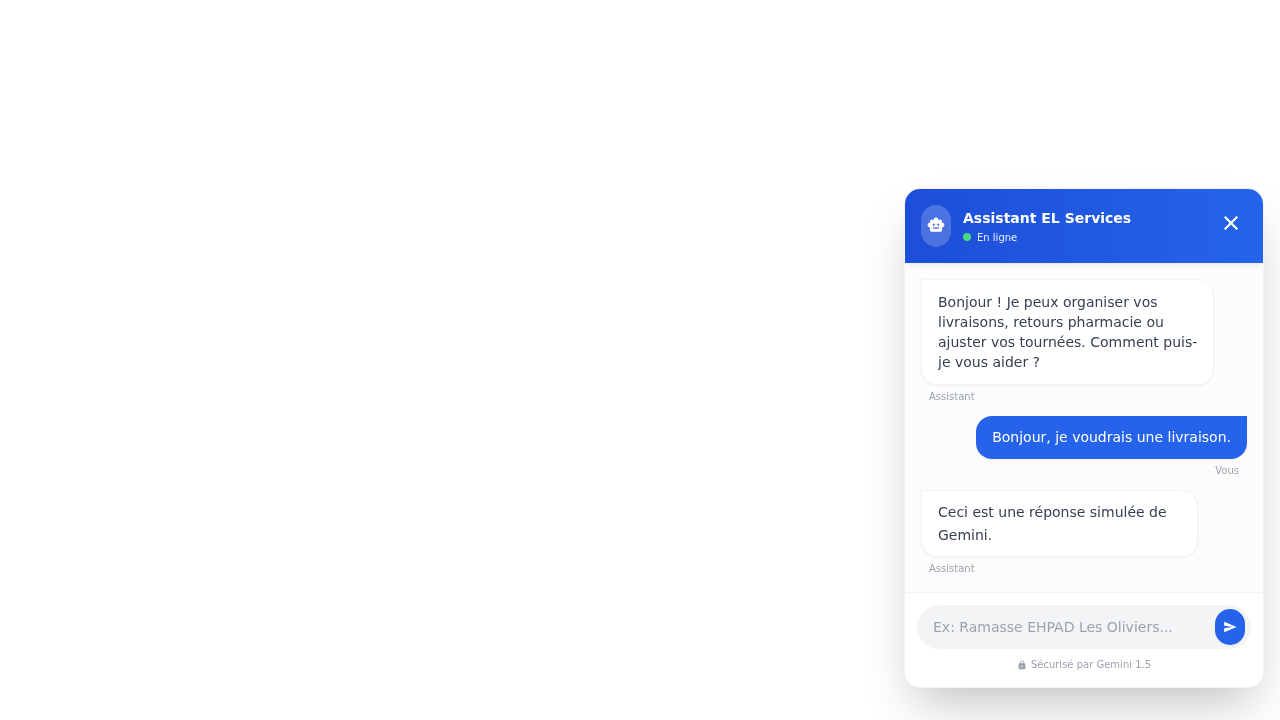
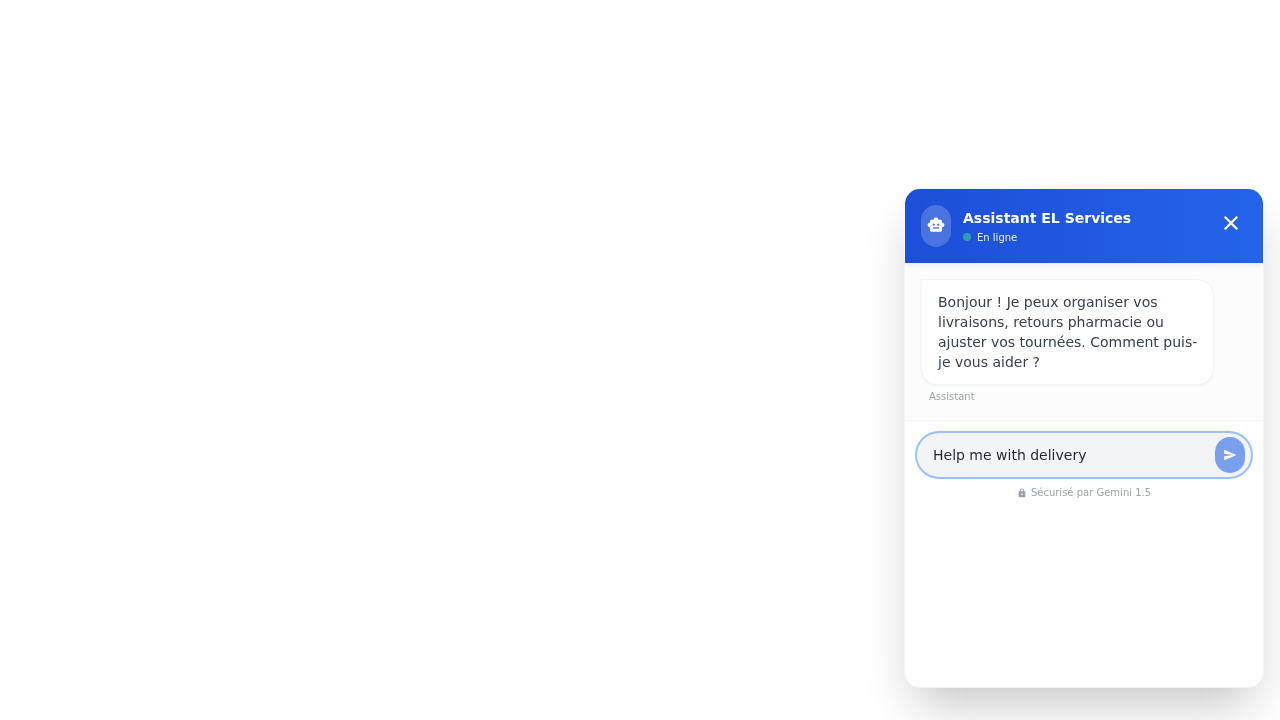
feat: Improve accessibility and UX of Chat Assistant
- Added `aria-label` attributes to "Close", "Send", and "Input" elements in `Chat_Piluleur_Interface.html`.
- Implemented `aria-live` region for messages container.
- Added logic to disable the "Send" button when the input is empty to prevent accidental submissions.
- Added visual feedback (disabled state) for the "Send" button.

diff --git a/Projet_ELS/Chat_Piluleur_Interface.html b/Projet_ELS/Chat_Piluleur_Interface.html
@@ -33,12 +33,12 @@
             </div>
           </div>
         </div>
-        <button onclick="toggleChat()" class="hover:bg-white/20 p-1 rounded-full transition-colors cursor-pointer">
+        <button onclick="toggleChat()" class="hover:bg-white/20 p-1 rounded-full transition-colors cursor-pointer" aria-label="Fermer la discussion">
           <span class="material-icons">close</span>
         </button>
       </div>
 
-      <div id="messages-container" class="flex-1 overflow-y-auto p-4 space-y-3 bg-gray-50/50 scrollbar-hide">
+      <div id="messages-container" class="flex-1 overflow-y-auto p-4 space-y-3 bg-gray-50/50 scrollbar-hide" aria-live="polite">
         <div class="flex flex-col items-start animate-fade-in">
           <div class="bg-white border border-gray-100 text-gray-700 rounded-2xl rounded-tl-none px-4 py-3 shadow-sm text-sm max-w-[90%]">
             Bonjour ! Je peux organiser vos livraisons, retours pharmacie ou ajuster vos tournées. Comment puis-je vous aider ?
@@ -49,9 +49,9 @@
 
       <div class="p-3 bg-white border-t border-gray-100">
         <form onsubmit="sendMessage(event)" class="relative flex items-center gap-2">
-          <input type="text" id="user-input" placeholder="Ex: Ramasse EHPAD Les Oliviers..."
+          <input type="text" id="user-input" placeholder="Ex: Ramasse EHPAD Les Oliviers..." aria-label="Votre message" oninput="updateSendButtonState()"
                  class="w-full bg-gray-100 text-gray-800 text-sm rounded-full pl-4 pr-12 py-3 focus:outline-none focus:ring-2 focus:ring-blue-500/50 transition-all placeholder-gray-400">
-          <button type="submit" id="send-btn" class="absolute right-1.5 p-2 bg-blue-600 hover:bg-blue-700 text-white rounded-full shadow-sm transition-all transform hover:scale-105 disabled:opacity-50 disabled:cursor-not-allowed">
+          <button type="submit" id="send-btn" aria-label="Envoyer le message" title="Envoyer" disabled class="absolute right-1.5 p-2 bg-blue-600 hover:bg-blue-700 text-white rounded-full shadow-sm transition-all transform hover:scale-105 disabled:opacity-50 disabled:cursor-not-allowed">
             <span class="material-icons text-sm block">send</span>
           </button>
         </form>
@@ -86,10 +86,18 @@
         windowEl.classList.remove('hidden');
         fabEl.classList.add('hidden');
         setTimeout(() => document.getElementById('user-input').focus(), 100);
+        updateSendButtonState(); // Ensure button state is correct when opening
       } else {
         windowEl.classList.add('hidden');
         fabEl.classList.remove('hidden');
       }
+    }
+
+    function updateSendButtonState() {
+      const input = document.getElementById('user-input');
+      const btn = document.getElementById('send-btn');
+      // Only enable if there is text
+      btn.disabled = !input.value.trim();
     }
 
     function sendMessage(e) {
@@ -146,7 +154,13 @@
 
     function setLoading(isLoading) {
       const btn = document.getElementById('send-btn');
-      btn.disabled = isLoading;
+
+      if (isLoading) {
+        btn.disabled = true;
+      } else {
+        // Re-enable only if there is text in the input
+        updateSendButtonState();
+      }
 
       const container = document.getElementById('messages-container');
       const existingLoader = document.getElementById('typing-loader');

diff --git a/verification/verify_chat.py b/verification/verify_chat.py
@@ -1,67 +1,70 @@
 from playwright.sync_api import sync_playwright
+import os
 
-def verify_chat_interface():
+def verify_chat_ux():
     with sync_playwright() as p:
         browser = p.chromium.launch(headless=True)
         page = browser.new_page()
 
-        # Load the HTML file
-        # Since we are in the repo root, the file is at Projet_ELS/Chat_Piluleur_Interface.html
-        # We need to use absolute path for file:// protocol
-        import os
+        # Get absolute path
         cwd = os.getcwd()
         file_path = f"file://{cwd}/Projet_ELS/Chat_Piluleur_Interface.html"
-
-        # Inject mock google.script.run
-        page.add_init_script("""
-            window.google = {
-                script: {
-                    run: {
-                        withSuccessHandler: function(successHandler) {
-                            this.successHandler = successHandler;
-                            return this;
-                        },
-                        withFailureHandler: function(failureHandler) {
-                            this.failureHandler = failureHandler;
-                            return this;
-                        },
-                        processChatRequest: function(data) {
-                            console.log('Mock processChatRequest called with:', data);
-                            setTimeout(() => {
-                                if (this.successHandler) {
-                                    this.successHandler({ text: 'Ceci est une réponse simulée de Gemini.' });
-                                }
-                            }, 500);
-                        }
-                    }
-                }
-            };
-        """)
+        print(f"Navigating to: {file_path}")
 
         page.goto(file_path)
 
-        # Take initial screenshot
+        # 1. Verify FAB button exists and has text
+        fab = page.locator("#fab-btn")
+        # Take screenshot of initial state
         page.screenshot(path="verification/chat_initial.png")
+        print("Initial screenshot taken")
 
-        # Open the chat
-        page.click("#fab-btn")
+        # 2. Click FAB to open chat
+        fab.click()
 
-        # Wait for animation
+        # 3. Verify Chat Window opens
+        chat_window = page.locator("#chat-window")
+        # Wait for animation/transition if needed
         page.wait_for_timeout(500)
 
+        # 4. Verify Close Button has aria-label
+        close_btn = page.locator("#chat-window button[onclick='toggleChat()']")
+        aria_label_close = close_btn.get_attribute("aria-label")
+        print(f"Close button aria-label: {aria_label_close}")
+        if aria_label_close != "Fermer la discussion":
+             print("FAIL: Close button aria-label missing or incorrect")
+
+        # 5. Verify Send Button has aria-label and is disabled initially
+        send_btn = page.locator("#send-btn")
+        aria_label_send = send_btn.get_attribute("aria-label")
+        print(f"Send button aria-label: {aria_label_send}")
+
+        is_disabled = send_btn.is_disabled()
+        print(f"Send button initially disabled: {is_disabled}")
+
+        # Take screenshot of open chat with empty input
         page.screenshot(path="verification/chat_open.png")
 
-        # Type a message
-        page.fill("#user-input", "Bonjour, je voudrais une livraison.")
-        page.click("#send-btn")
+        # 6. Type in input and verify button enables
+        input_field = page.locator("#user-input")
+        input_field.fill("Hello")
 
-        # Wait for response (simulated delay is 500ms)
-        page.wait_for_timeout(1000)
+        # Trigger input event if fill doesn't (Playwright fill usually triggers events)
+        # But we added oninput="updateSendButtonState()"
 
-        # Take screenshot of conversation
+        is_enabled = not send_btn.is_disabled()
+        print(f"Send button enabled after typing: {is_enabled}")
+
+        # 7. Clear input and verify button disables
+        input_field.fill("")
+        is_disabled_again = send_btn.is_disabled()
+        print(f"Send button disabled after clearing: {is_disabled_again}")
+
+        # 8. Type again to leave in good state for screenshot
+        input_field.fill("Help me with delivery")
         page.screenshot(path="verification/chat_conversation.png")
 
         browser.close()
 
 if __name__ == "__main__":
-    verify_chat_interface()
+    verify_chat_ux()

diff --git a/.Jules/palette.md b/.Jules/palette.md
@@ -1,0 +1,5 @@
+# Palette's Journal
+
+## 2024-05-22 - Icon-Only Buttons in Modern UI
+**Learning:** Icon-only buttons in Tailwind/utility-first designs are visually clean but often lack `aria-label`, making them invisible to screen readers.
+**Action:** Always verify icon-only buttons (`send`, `close`, `menu`) have explicit `aria-label` or `title` attributes.
